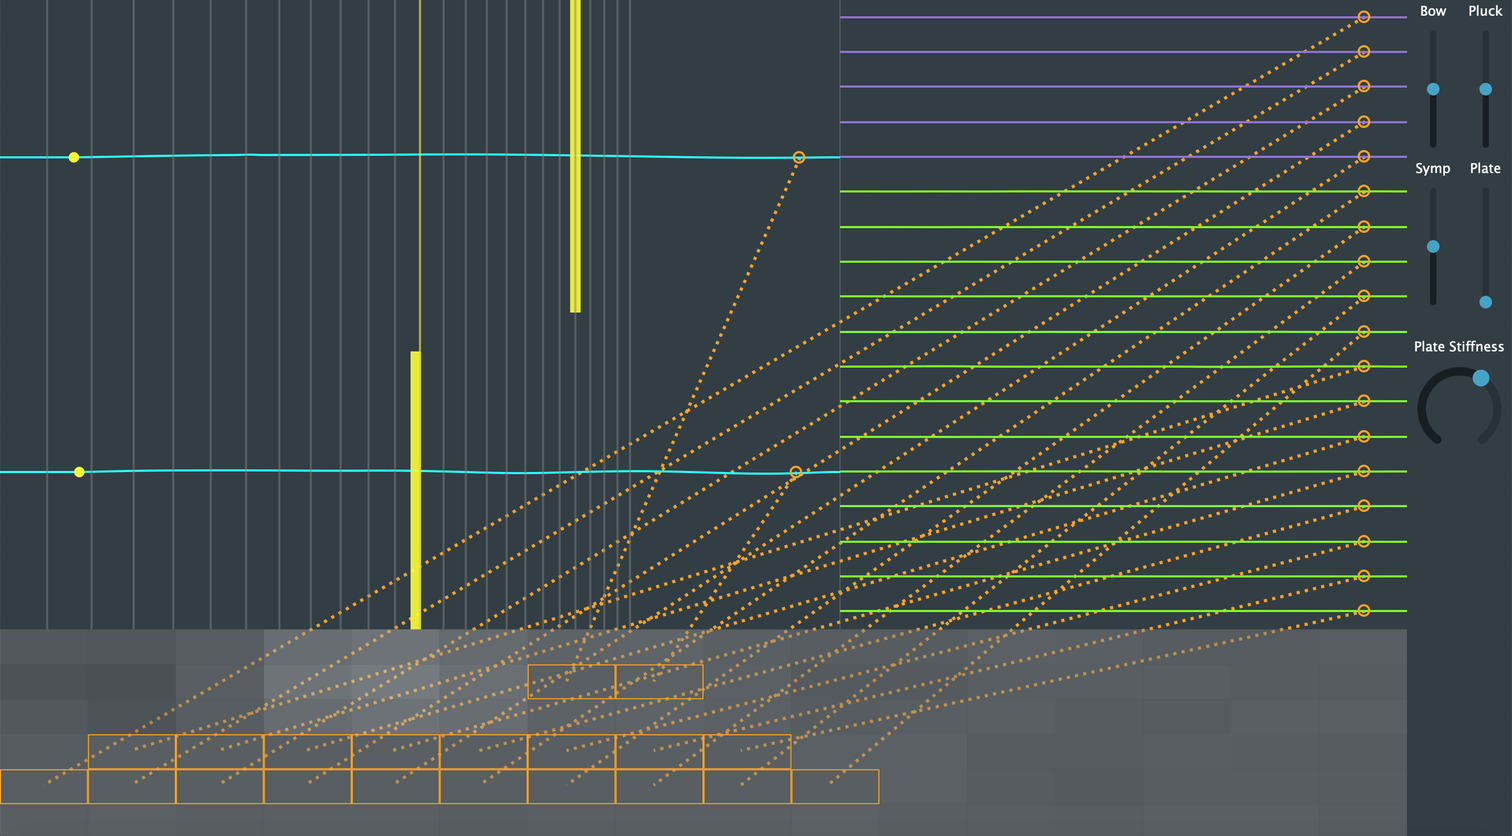
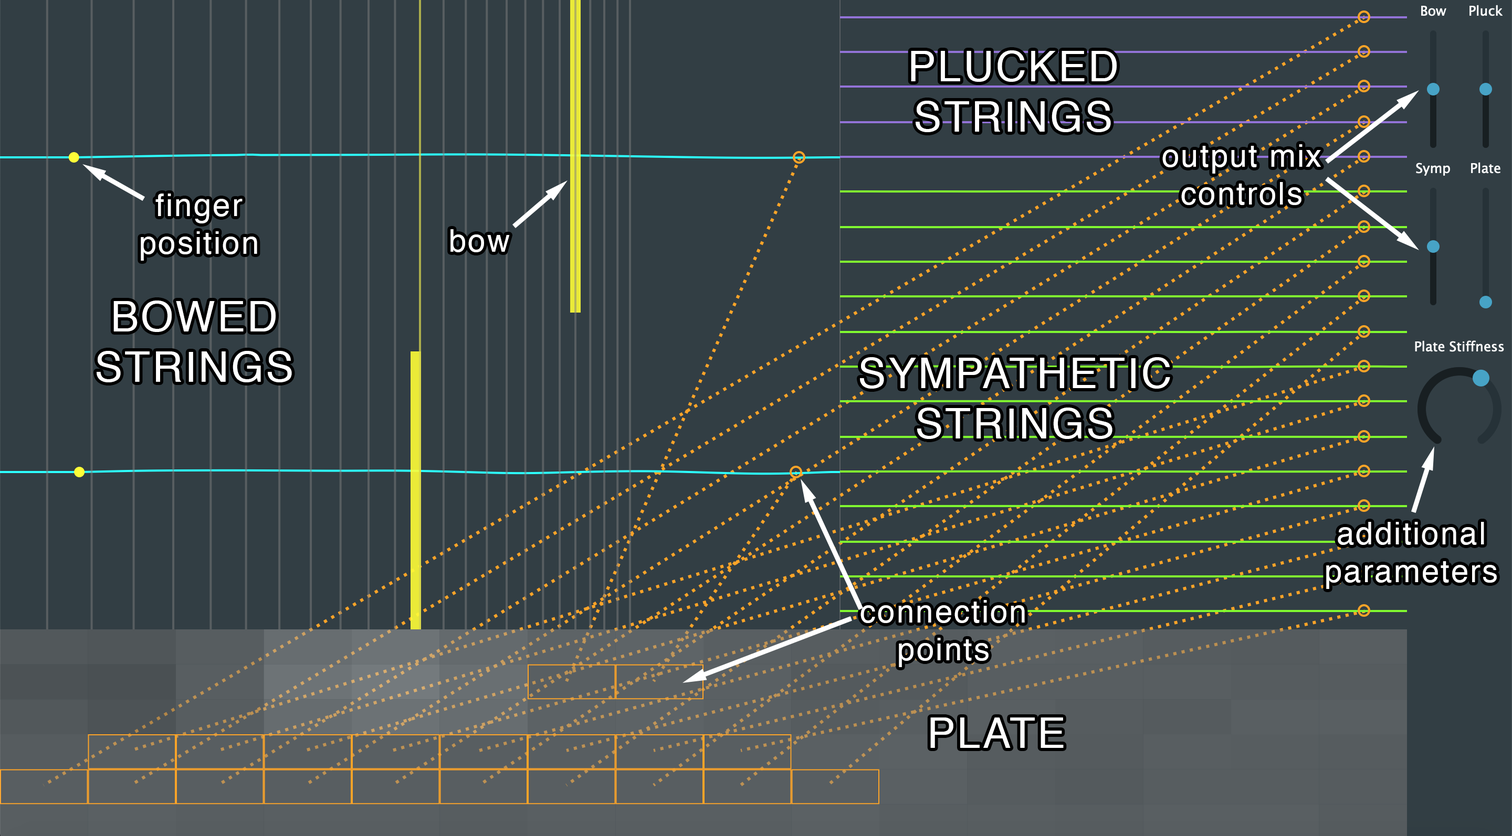
Added more on connections

diff --git a/LATEX/SMCPaper.tex b/LATEX/SMCPaper.tex
@@ -16,6 +16,7 @@
 \usepackage{amssymb} % related math environments (split, subequation, cases,
 \usepackage{amsfonts}% multline, etc.)
 \usepackage{bm}      % Bold Math package, defines the command \bf{}
+\usepackage[]{algorithm2e}
 %\usepackage{paralist}% extended list environments
 %%subfig.sty is the modern replacement for subfigure.sty. However, subfig.sty 
 %%requires and automatically loads caption.sty which overrides class handling 
@@ -86,7 +87,7 @@
     linkcolor=black,%
     urlcolor=black
 }
-
+\SetAlCapSkip{1em}
 
 % Title.
 % ------
@@ -180,51 +181,60 @@ Furthermore,
     \delta(x-x_\text{B}) =
 \begin{cases}
     1, & \text{if } x=x_\text{B}\\
-    0,              & \text{otherwise},
+    0,              & \text{otherwise}
 \end{cases}
 \end{equation}
 is referred to as the spatial Dirac delta function centered at $x_\text{B}$, which, when multiplied onto the excitation, applies it only to the point $x_\text{B}$ on the string.
 
-If the string is simply excited, we can extend Equation \eqref{eq:stiffString} to
-
+Another, and more simple way to excite the string is by extending Equation \eqref{eq:stiffString} to
 \begin{equation}
-    \label{eq:excitedString} u_{tt} = ... + F_eE_e,
+    \label{eq:excitedString} u_{tt} = ... + F_\text{e}E_\text{e},
 \end{equation}
-where excitation function $F_\text{e} = F_\text{e}(t) = f_\text{e} / M_\text{s}$ with excitation force $f_\text{e}$ [N] and distribution function $E_\text{e} = E_\text{e}(x)$. If the excitation is only applied to one point, the distribution function reduces to $\delta(x-x_\text{e})$.
+where excitation function $F_\text{e} = F_\text{e}(t)$ and distribution function $E_\text{e} = E_\text{e}(x)$. If the excitation is only applied to one point, the distribution function reduces to $\delta(x-x_\text{e})$.
 \subsection{Plate}\label{subsec:platePDE}
 In the case of a plate, the state $u = u(x,y,t)$ is now defined over two spatial dimensions. The PDE for a damped plate is \cite{Bilbao2009:NumericalSoundSynthesis}
 \begin{equation}\label{eq:platePDE}
     u_{tt} = -\kappa^2 \Delta\Delta u - 2 \sigma_0 u_{t} + 2\sigma_1 \Delta u_{t},
 \end{equation}
-where $\kappa$ is again a stiffness parameter. Furthermore, $\Delta$ represents the 2D Laplacian.
+where $\kappa$ is again a stiffness parameter and $\Delta$ represents the 2D Laplacian.
 
 \subsection{Connections}\label{sec:connections}
-Adding connections between different PMs, further referred to as elements, adds another term to Equation \eqref{eq:bowedString} or \eqref{eq:platePDE}
+Adding connections between different PMs, further referred to as elements, adds another term to the string or plate equations
 %% this paragraph is too wide for some reason
 \begin{align}
     u_{tt} &= ... + F_\alpha E_\alpha, \\
     u_{tt} &= ... + F_\beta E_\beta,
 \end{align}
-where $F_\alpha$ and $F_\beta$ are the forces of the connection at connection areas $E_\alpha$ and $E_\beta$ respectively. If a connection area consists of only one point, $E$ reduces to $\delta(x-x_\text{c})$ where $x_\text{c}$ is the point of connection. We use the implementation as presented in \cite{Bilbao2009:ModularPercussion} where the connection between two elements is a non-linear spring. The forces it imposes on the elements it connects - denoted by $\alpha$ and $\beta$ - are defined as
+where $F_\alpha$ and $F_\beta$ are the forces of the connection at connection areas $E_\alpha$ and $E_\beta$ respectively. If a connection area consists of only one point, $E$ reduces to a scaled version of $\delta(x-x_\text{c})$ where $x_\text{c}$ is the point of connection (see Equation \eqref{eq:excitationAreas}). We use the implementation as presented in \cite{Bilbao2009:ModularPercussion} where the connection between two elements is a non-linear spring. The forces it imposes on the elements it connects - denoted by $\alpha$ and $\beta$ - are defined as
+\begin{subequations}\label{eq:connectionsPDE}
 \begin{align}
     F_\alpha &= -\omega_0^2\eta - \omega_1^4\eta^3 - 2\sigma_\times\eta_t,\\
-    F_\beta &= -M_{\alpha/\beta}F_\alpha,
+    F_\beta &= -\mathcal{M}_{\alpha/\beta}F_\alpha,
 \end{align}
-where $\omega_0$ and $\omega_1$ are the linear and non-linear spring coefficients respectively, $\sigma_\times$ is the damping factor, $M_{\alpha/\beta}$ is the mass ratio between the two elements and $\eta$ is the relative displacement between the connected elements at the point of connection. The subscript $t$ again denotes a derivative with respect to time.
+\end{subequations}
+where $\omega_0$ and $\omega_1$ are the linear and non-linear spring coefficients respectively [N/m] %CORRECT??
+, $\sigma_\times$ is a damping factor, $\mathcal{M}_{\alpha/\beta}$ is the mass ratio between the two elements and $\eta$ is the relative displacement between the connected elements at the point of connection. The subscript $t$ again denotes a derivative with respect to time.
 
 
 \section{Finite-Difference Schemes}\label{sec:FDS}
 To be able to digitally implement the continuous equations shown in the previous section, they need to be approximated. The models can be discretised at times $t = nk$, where $n \in \mathbb{N}$ and $k = 1 / f_\text{s}$ is the time-step with sample-rate $f_\text{s}$ and locations $x = lh$, where $l \in [0,N]$ with $N$ being the total number of points and $h$ is the grid-spacing of the model which is calculated differently for each model (see sub-sections below). The discretised variable $u_l^n$ is $u(x,t)$ at the $n$th time step and the $l$th point on the string. The plate is discretised using $x = lh$ where $l \in [0,N_x]$ with $N_x$ being the total horizontal number of points and $y = mh$ where $m \in [0,N_y]$ with $N_y$ being the total vertical number of points. 
-Approximations for the derivatives in the equations found in Section \ref{sec:PDE} can be found in \cite{Bilbao2009:NumericalSoundSynthesis}.
+Approximations for the derivatives in the equations found in Section \ref{sec:PDE} can be found in \cite{Bilbao2009:NumericalSoundSynthesis}. We will also use the notation for the difference and averaging operators found here. 
+
+\textit{Note: In this paper we have used the simple case of a single point for bowing and connections. These can be extended to a bowing area or area of connection. For more information on this, we would like to refer the reader to \cite{Bilbao2009:ModularPercussion}}.
 
 \subsection{Stiff String}\label{subsec:stiffStringFDS}
-Equation \eqref{eq:bowedString} can be approximated using
+Equation \eqref{eq:stiffString} can be approximated using
 \begin{equation}
 \begin{aligned}\label{eq:stiffStringFDS}
 \delta_{tt} u_l^n = &\gamma^2 \delta_{xx} u_l^n -\kappa^2\delta_{xx}\delta_{xx} u_l^n - 2\sigma_0\delta_{t\cdot} u_l^n  \\
-&+ 2\sigma_1\delta_{t-}\delta_{xx}u_l^n - \delta_{x_\text{B}}F_\text{B}\phi(v_\text{rel}),
+&+ 2\sigma_1\delta_{t-}\delta_{xx}u_l^n.
 \end{aligned}
 \end{equation}
+The extensions found in Equations \eqref{eq:bowedString} and \eqref{eq:excitedString} are approximated using
+\begin{align}
+    \delta_{tt} u_l^n &= ... - \delta_{x_\text{B}}F_\text{B}\phi(v_\text{rel}),\label{eq:bowedStringFDS}\\
+    \delta_{tt} u_l^n &= ... + F_\text{e}E_\text{e},\label{eq:excitedStringFDS}
+\end{align}
 where $\delta_{x_\text{B}} = \delta(x-x_\text{B})$ (see Equation \eqref{eq:dirac}) and 
 \begin{equation}\label{eq:descreteRelativeVel}
     v_\text{rel} = \delta_{t\cdot}u(x_\text{B})-v_\text{B}.
@@ -232,10 +242,11 @@ where $\delta_{x_\text{B}} = \delta(x-x_\text{B})$ (see Equation \eqref{eq:dirac
 For our implementation, clamped boundary conditions were used, defined as:
 \begin{equation}\label{boundary}
     u = u_x = 0 \quad \text{where} \quad l = \{0, N\}.
-  \end{equation}
+\end{equation}
   
 For stability reasons, the grid-spacing needs to abide the following condition
-\begin{equation}
+%section 7.2.3 numerical sound synthesis
+\begin{equation}\label{eq:stabilityString}
     h \geq \sqrt{\frac{\gamma^2 k^2 + 4 \sigma_1 k + \sqrt {(\gamma^2 k^2 + 4 \sigma_1 k)^2 + 16 \kappa^2 k^2}}{2}}.
 \end{equation}
 The closer $h$ is to this limit, the higher the quality of the implementation. The number of points $N$ can then be calculated using 
@@ -258,33 +269,103 @@ As in the case of the stiff string, we chose to use clamped boundary conditions:
         u = u_y = 0 \quad &\text{where} \quad m = \{0, N_y\}
     \end{aligned}
 \end{equation}
-\subsection{Connections}
-\begin{align}
-    F_\alpha &= -\omega_0^2\mu_{t\cdot}\eta - \omega_1^4\eta^2\mu_{t\cdot}\eta - 2\sigma_\times\delta_{t\cdot}\eta,\\
-    F_\beta &= -M_{\alpha/\beta}F_\alpha,
-\end{align}
+In the case of the plate, we set the number of horizontal and vertical points and calculate grid spacing $h$ from that using \cite{Bilbao2009:ModularPercussion}
+\begin{equation}
+    h = \frac{\sqrt{N_x / N_y}}{N_x}.
+\end{equation}
 
+\subsection{Connections}
+The equations in \eqref{eq:connectionsPDE} can be approximated using \cite{Bilbao2009:ModularPercussion}
+\begin{subequations}
+\begin{align}\label{eq:connectionsFDS}
+    F_\alpha &= -\omega_0^2\mu_{t\cdot}\eta - \omega_1^4\eta^2\mu_{t\cdot}\eta - 2\sigma_\times\delta_{t\cdot}\eta,\\
+    F_\beta &= -\mathcal{M}_{\alpha/\beta}F_\alpha.
+\end{align}
+\end{subequations}
 The relative displacement $\eta$ between $\alpha$ and $\beta$ can be calculated as
 \begin{equation}
-    \eta^n = h_\alpha u_{\alpha, x_\alpha}^n - h_\beta u_{\beta,x_\beta}^n,
+    \eta^n = h_\alpha u_{\alpha, x_{\text{c},\alpha}}^n - h_\beta u_{\beta,x_{\text{c},\beta}}^n,
 \end{equation}
-which, in other words, is the difference between the state of element $\alpha$ at connection point $x_\alpha$ and the state of element $\beta$ at connection point $x_\beta$ scaled by their respective grid-spacings $h_\alpha$ and $h_\beta$.
-
+which, in other words, is the difference between the state of element $\alpha$ at connection point $x_{\text{c},\alpha}$ and the state of element $\beta$ at connection point $x_{\text{c},\beta}$ scaled by their respective grid-spacings $h_\alpha$ and $h_\beta$. Solving \eqref{eq:connectionsFDS} for $\eta^{n+1}$ yields
+\begin{equation}
+    \eta^{n+1} = p^nF_\alpha+r^n\eta^{n-1},
+\end{equation}
+with
+\begin{subequations}
+\begin{align}
+    p^n &= \frac{-2}{2\sigma_x/k + \omega_0^2+\omega_1^4(\eta^n)^2},\\
+    r^n &= \frac{2\sigma_x/k - \omega_0^2-\omega_1^4(\eta^n)^2}{2\sigma_x/k + \omega_0^2+\omega_1^4(\eta^n)^2}.
+\end{align}
+\end{subequations}
+The (scaled) connection areas (simplified to be a single connection point) $E_{\alpha,\text{c}}$ and $E_{\beta,\text{c}}$ are calculated using
+\begin{subequations}\label{eq:excitationAreas}
+    \begin{align}
+        E_{\alpha,\text{c}} &= \frac{k^2}{1+\sigma_{0, \alpha}k},\\
+        E_{\beta,\text{c}} &= -\frac{\mathcal{M}_{\alpha/\beta}k^2}{1+\sigma_{0,\beta} k}.
+    \end{align}
+\end{subequations}
+The connection force $F_\alpha$ can then be calculated using
+\begin{equation}
+    F_\alpha = \frac{a^n - b^n}{h_\alpha E_{\alpha,\text{c}} - h_\beta E_{\beta,\text{c}} - p^n},
+\end{equation}
+where 
+\begin{align}
+    a^n &= r^n\eta^{n-1},\\
+    b^n &= h_\alpha u^{n+1}_{\alpha,{x_{\text{c}, \alpha}}} - h_\beta u^{n+1}_{\beta,{x_{\text{c},\beta}}},
+\end{align}
+where the values for $u^{n+1}$ can be obtained by solving Equation \eqref{eq:bowedStringFDS}, \eqref{eq:excitedStringFDS} or \eqref{eq:plateFDS} depending on the element type.
 
 \section{Implementation}\label{sec:implementation}
-%kind of a methods section
+%kind of a methods section 
+% implementation of FDSs and C++ optimization
 In this section, we will present how to implement the FDSs presented in Section \ref{sec:FDS} and elaborate more on the parameters used. The values for most parameters have been arbitrarily chosen and can - as long as they satisfy the conditions - be changed. We used C++ along with the JUCE framework for implementing the PMs and connections in real-time. The main hardware used for testing was a MacBook Pro with a 2.2 GHz Intel Core i7 processor.
 
-\textit{Note: In this paper we have used the simple case of a single point for bowing, excitation and connections. These can be extended to a bowing area, excitation area and area of connection. For more information on this, we would like to refer the reader to \cite{Bilbao2009:ModularPercussion}}.
+\subsection{General}
+The most important thing in real-time implementation of FDSs, is to optimise the FDSs themselves as these will be ran at sampling rate. We make sure to only have one multiplication per location of $u$ per time-step ($u_l^n$, $u_{l+1}^{n-1}$ etc) (\textbf{SEE APPENDIX DAFX PAPER}) %<-- needs to be more clear
 
-The most important thing is to optimise the FDSs as these will be ran at sampling rate. We make sure to only have one multiplication per location of $u$ per time-step ($u_l^n$, $u_{l+1}^{n-1}$ etc) (\textbf{SEE APPENDIX DAFX PAPER}) %<-- needs to be more clear
+Furthermore, it is important to take note of is the order of calculation. First the non-extended schemes (Equations \eqref{eq:stiffString} and \eqref{eq:platePDE}) must be calculated before adding the effects of excitations (including bowing), which - in turn - needs to be calculated before adding the effects of connections (see Algorithm \ref{alg:calcOrder}).
+
+\begin{algorithm}[h]\label{alg:calcOrder}
+\fbox{\parbox{0.93\linewidth}{
+ \While{application runs}{
+  calculate state $u^{n+1}$ for all elements using previous state values
+  
+  $\quad u^{n+1}_\text{s} = Bu^n + Cu^{n-1}$
+  
+  \If{element is excited/bowed}{
+    calculate excitation term and add to element
+    
+    $\quad u^{n+1}_\text{s+e} = u_\text{s}^{n+1} + E$
+    }
+   \For{all connections}{
+   calculate connection forces and add to elements
+   
+   $\quad u^{n+1}_\text{s+e+c} = u_\text{s+e}^{n+1} + C$
+   }
+  
+  update statevectors
+  
+  $\quad u^{n-1} = u^n$
+  
+  $\quad u^n = u^{n+1}_\text{s+e+c}$
+  
+  
+  increment time step
+  
+  $\quad n$++
+
+ }
+ }}
+ \caption{Pseudocode showing the correct order of calculation. The subscripts for state $u$ shows what it consists of (`s' for previous state, `e' for excitation and `c' for connection).}
+\end{algorithm}
+
 \subsection{String}
 %In order to implement the FDSs presented in Section \ref{sec:FDS} they need to be solved for $u^{n+1}$. Equation \eqref{eq:stringImplementation} found in Appendix A shows a solved finite-difference scheme of Equation \eqref{eq:stiffStringFDS}.
 
 
 As can be seen from Equation \eqref{eq:descreteRelativeVel} the solution for $v_\text{rel}$ is implicit. It is thus necessary to use an iterative root-finding method such as Newton-Raphson [source].
 
-If simply excited we set the distribution function is to a raised cosine with width $w_\text{e}$ [m]
+If simply excited, or plucked in the case of a string, we set the distribution function is to a raised cosine with width $w_\text{e}$ [m]
 
 \begin{equation} \label{eq:distribution}
     E(x) = 
@@ -294,13 +375,16 @@ If simply excited we set the distribution function is to a raised cosine with wi
     \end{cases}
 \end{equation}
 scaled by the excitation function over time with excitation duration $d_\text{e}$ [s]
+%numerical sound synthesis Eq. (12.28) or
+%On the limits of Eq. (4)
 \begin{equation}\label{eq:excitation}
     F(t) = 
     \begin{cases}
-        \frac{1 - \cos(\frac{\pi (t - t_\text{e})}{d_\text{e}})}{2}, & t \geq t_\text{e} \wedge t < t_\text{e}+d_\text{e}\\
+        f_\text{e}\frac{1 - \cos(\frac{\pi (t - t_\text{e})}{d_\text{e}})}{2}, & t_\text{e} \leq t \leq t_\text{e}+d_\text{e}\\
         \hfil 0, &\text{otherwise}
     \end{cases}
 \end{equation}
+with excitation force $f_\text{e}$ [N]. 
 A visualisation of this can be found in Figure \ref{fig:exctiation}.
 
 
@@ -330,11 +414,16 @@ A visualisation of this can be found in Figure \ref{fig:exctiation}.
 
 \subsubsection{Pitch}
 There are several ways to change the pitch of the string
-See \cite{Bilbao2009:NumericalSoundSynthesis} section 7.6.
+According to \cite{Bilbao2009:NumericalSoundSynthesis},  the fundamental frequency can be approximately calculated using
 
-\subsubsection{Damping finger}
+\begin{equation}
+    f_0 \approx \frac{\gamma}{2}.
+\end{equation}
+
+However, as the grid spacing $h$ is dependent on $\gamma$ according to the condition found in \eqref{eq:stabilityString}, we must put a lower limit on the number of points $N$ if we plan to dynamically increase $\gamma$.
+
 %maybe it would be better to move the boundary to a different gridpoint and use interpolation for determination of the values around the boundary
-Another way to generate different pitches is to add damping to the model at several points that acts as a fretting finger. If the string is fretted st single location $x_\text{f} \in [0, 1]$ and $l_\text{f} = \text{floor}(x_\text{f}/h)$ we use
+Another way to generate different pitches is to add damping to the model at specific points that acts as a fretting finger. The advantage of this is that the condition \eqref{eq:stabilityString} will never be violated. On top of this, a tapping sound will be introduced when fretting the string, making it more realistic than changing the wave speed. If the string is fretted st single location $x_\text{f} \in [0, 1]$ and $l_\text{f} = \text{floor}(x_\text{f}/h)$ we use
 \begin{equation}
 u_l^n = 
     \begin{cases}
@@ -343,37 +432,41 @@ u_l^n =
         \hfil u_l^n, & \text{otherwise}
     \end{cases}
 \end{equation}
-where $\alpha_\text{f} = x_\text{f}/h - l_\text{f}$ describes the fractional location of $x_\text{f}$ between two grid points. We found that the effect of damping between grid points does not linearly scale to pitch. We thus added $\epsilon = 7$ as a heuristic value to more properly map finger position to pitch.
-
+where $\alpha_\text{f} = x_\text{f}/h - l_\text{f}$ describes the fractional location of $x_\text{f}$ between two grid points. The disadvantage of using this technique over changing the wave speed $\gamma$ is that the effect of damping between grid points does not linearly scale to pitch. We thus added $\epsilon = 7$ as a heuristic value to more properly map finger position to pitch.
 
 \subsection{Plate}
 We chose the number of points to be $N_x = 20$ and $N_y = 10$ as this was found to be a great speed/quality tradeoff.
 
-In the case of the plate, we set the number of horizontal and vertical points and calculate grid spacing $h$ from that using 
-
-\begin{equation}
-    h = \frac{\sqrt{N_x / N_y}}{N_x}.
-\end{equation}
-
+An interesting parameter to change is the plate stiffness $\kappa$. 
 
 \subsection{Connections}
+As mentioned before, the connections need to be calculated using 
 
+In order to calculate the connection forces $F_\alpha$ and $F_\beta$, the relative displacement of the connection points $E_\alpha$ and $E_\beta$ is needed. We must thus have knowledge of the states of connected elements $\alpha$ and $\beta$. 
 
 \subsection{Sensel Morph}
 The Sensel Morph (or further referred to as Sensel) is an expressive touch controller that senses position and force of objects
 \subsubsection{Mapping strategies}
 Something about the different prototype mappings, and the "final" mapping 
 
-Finally, connections are shown using orange circles/squares for the points of connection and dotted lines between connected elements.
-\section{Instrument Desctiptions}\label{sec:instruments}
+\section{Instruments and User Interaction}\label{sec:instruments}
+In this section, several configurations of strings, plates and connections that are inspired by real-life instruments will be presented. We subdivide string-elements into three types: bowed, plucked and sympathetic strings. All strings will be connected to one plate which simulates an instrument body. The user can control the plate stiffness and increase it to generate more interaction between the strings. Furthermore, the user can change the output level of each element type. Apart from these parameters, which are controlled by the mouse, the instruments are fully controlled by two Sensels. The instruments we have chosen as our inspiration are the sitar, the hammered dulcimer and the hurdy gurdy. Videos and sound examples can be found through the following link:...
 
-In this section, several configurations of strings, plates and connections that are inspired by real-life instruments will be presented. We subdivide string-elements into three types: bowed, plucked and sympathetic strings. All strings will be connected to one plate which simulates an instrument body. The user can control the plate stiffness and increase it to generate more interaction between the strings. Furthermore, the user can change the output-level of each element-type using. Apart from these parameters, which are controlled by the mouse, the instruments are fully controlled by two Sensels. The instruments we have chosen as our inspiration are the sitar, the hammered dulcimer and the hurdy gurdy. Videos and sound examples can be found through the following link:...
+\subsection{User interface}
+Strings are shown as coloured paths (also see figures in this section). The state $u$ of the model is visualised using the vertical displacement of the paths. Bowed strings are shown in cyan on the top left. The bow is shown as a yellow rectangle and moves on interaction. The fretting position is shown as a yellow circle. Plucked strings are shown in purple i the top right, underneath which the sympathetic strings are shown in light green. The plate is shown in the bottom using a 18x8 grid of rectangles (clamped gridpoints are not shown). Its state is visualised using a grey-scale.
 
-\subsubsection{User interface}
-Strings are shown as coloured paths (also see figures in \ref{sec:instruments}). The state $u$ of the model is visualised using the vertical displacement of the paths. Bowed strings are shown in cyan on the top left. The bow is shown as a yellow rectangle and moves on interaction. The fretting position is shown as a   yellow circle. Plucked strings are shown in purple i the top right, underneath which the sympathetic strings are shown in light green. The plate is shown in the bottom using a 18x8 grid of rectangles (clamped gridpoints are not shown). Its state is visualised using a grey-scale.
+Furthermore, connections are shown using orange circles/squares for the points of connection and dotted lines between connected elements.
+
+Lastly, all parameters that are controlled by the mouse - output-mix, plate stiffness, etc - are located in a column on the right side of the UI.
 
 \subsection{Bowed Sitar}
-The sitar is originally an Indian string instrument that has both fretted strings and sympathetic strings. Instead of picking the fretted strings, we extended the model to bow these strings. Our implementation consists of 2 bowed strings, 13 sympathetic strings and 5 plucked strings (as it is also possible to strum the sympathetic strings). One Sensel is vertically subdivided into two sections, one for each bowed string, The first finger registered by the Sensel is mapped to the bow and the second is mapped to a fretting finger on the string controlling pitch. The frets are not implemented as such (the pitch is continuous), but they are visualised for reference. The horizontal position of the first finger is mapped to the bowing position on the string, the vertical velocity  to the bow velocity with a maximum of $v_\text{B} = 0.2$ m/s and the finger force is linked to the excitation function with a maximum of $F_\text{B} = 100$ m/s$^2$. The other Sensel is subdivided into 5 sections mapped to the plucked strings. 
+The sitar is originally an Indian string instrument that has both fretted strings and sympathetic strings. Instead of picking the fretted strings, we extended the model to bow these strings. Our implementation consists of 2 bowed strings, 13 sympathetic strings and 5 plucked strings (as it is also possible to strum the sympathetic strings). See Figure \ref{fig:bowedSitar} for a visual of the implementation. One Sensel is vertically subdivided into two sections, one for each bowed string, The first finger registered by the Sensel is mapped to the bow and the second is mapped to a fretting finger on the string controlling pitch. The frets are not implemented as such (the pitch is continuous), but they are visualised for reference. The horizontal position of the first finger is mapped to the bowing position on the string, the vertical velocity  to the bow velocity with a maximum of $v_\text{B} = 0.2$ m/s and the finger force is linked to the excitation function with a maximum of $F_\text{B} = 100$ m/s$^2$. The other Sensel is subdivided into 5 sections mapped to the plucked strings. 
+
+\begin{figure}[h]
+\centering
+\includegraphics[width=1.0\columnwidth]{LATEX/BowedSitar.png}
+\caption{The bowed sitar application. The descriptions of the different elements and other objects are shown in the image, but will (naturally) not be visible in the application. \label{fig:bowedSitar}}
+\end{figure}
 
 \subsection{Hammered Dulcimer}
 The hammered dulcimer is an instrument that can be seen as an 'open piano' where the musician has the hammers in their hand. Just like the piano, the strings are grouped in pairs or triples %triplets?
@@ -387,12 +480,6 @@ The hurdy gurdy is an instrument that consists of bowed and sympathetic strings.
 Our implementation consists of 5 bowed strings subdivided into 2 drone strings tuned to A2, E3 and 3 melody strings tuned to A3, E4 and A4 and 13 sympathetic strings. 
 
 The Sensel is vertically subdivided into 5 rows that control whether the strings are placed on the wheel. The bowing velocity is mapped to the average pressure of the fingers. The pitch (in the model this is the wave-speed $\gamma$) of the melody-strings are changed by a midi controller.
-
-\begin{figure}[t]
-\centering
-\includegraphics[width=1.0\columnwidth]{LATEX/BowedSitar.png}
-\caption{The bowed sitar application. \label{fig:bowedSitar}}
-\end{figure}
 
 
 \section{Discussion}\label{sec:discussion}
@@ -408,7 +495,7 @@ Model instrument bodies
 
 
 \begin{acknowledgments}
-We would like to thank...
+We would like to thank Stefan Bilbao for his guidance during the course of this project. 
 \end{acknowledgments} 
 
 %%%%%%%%%%%%%%%%%%%%%%%%%%%%%%%%%%%%%%%%%%%%%%%%%%%%%%%%%%%%%%%%%%%%%%%%%%%%%
